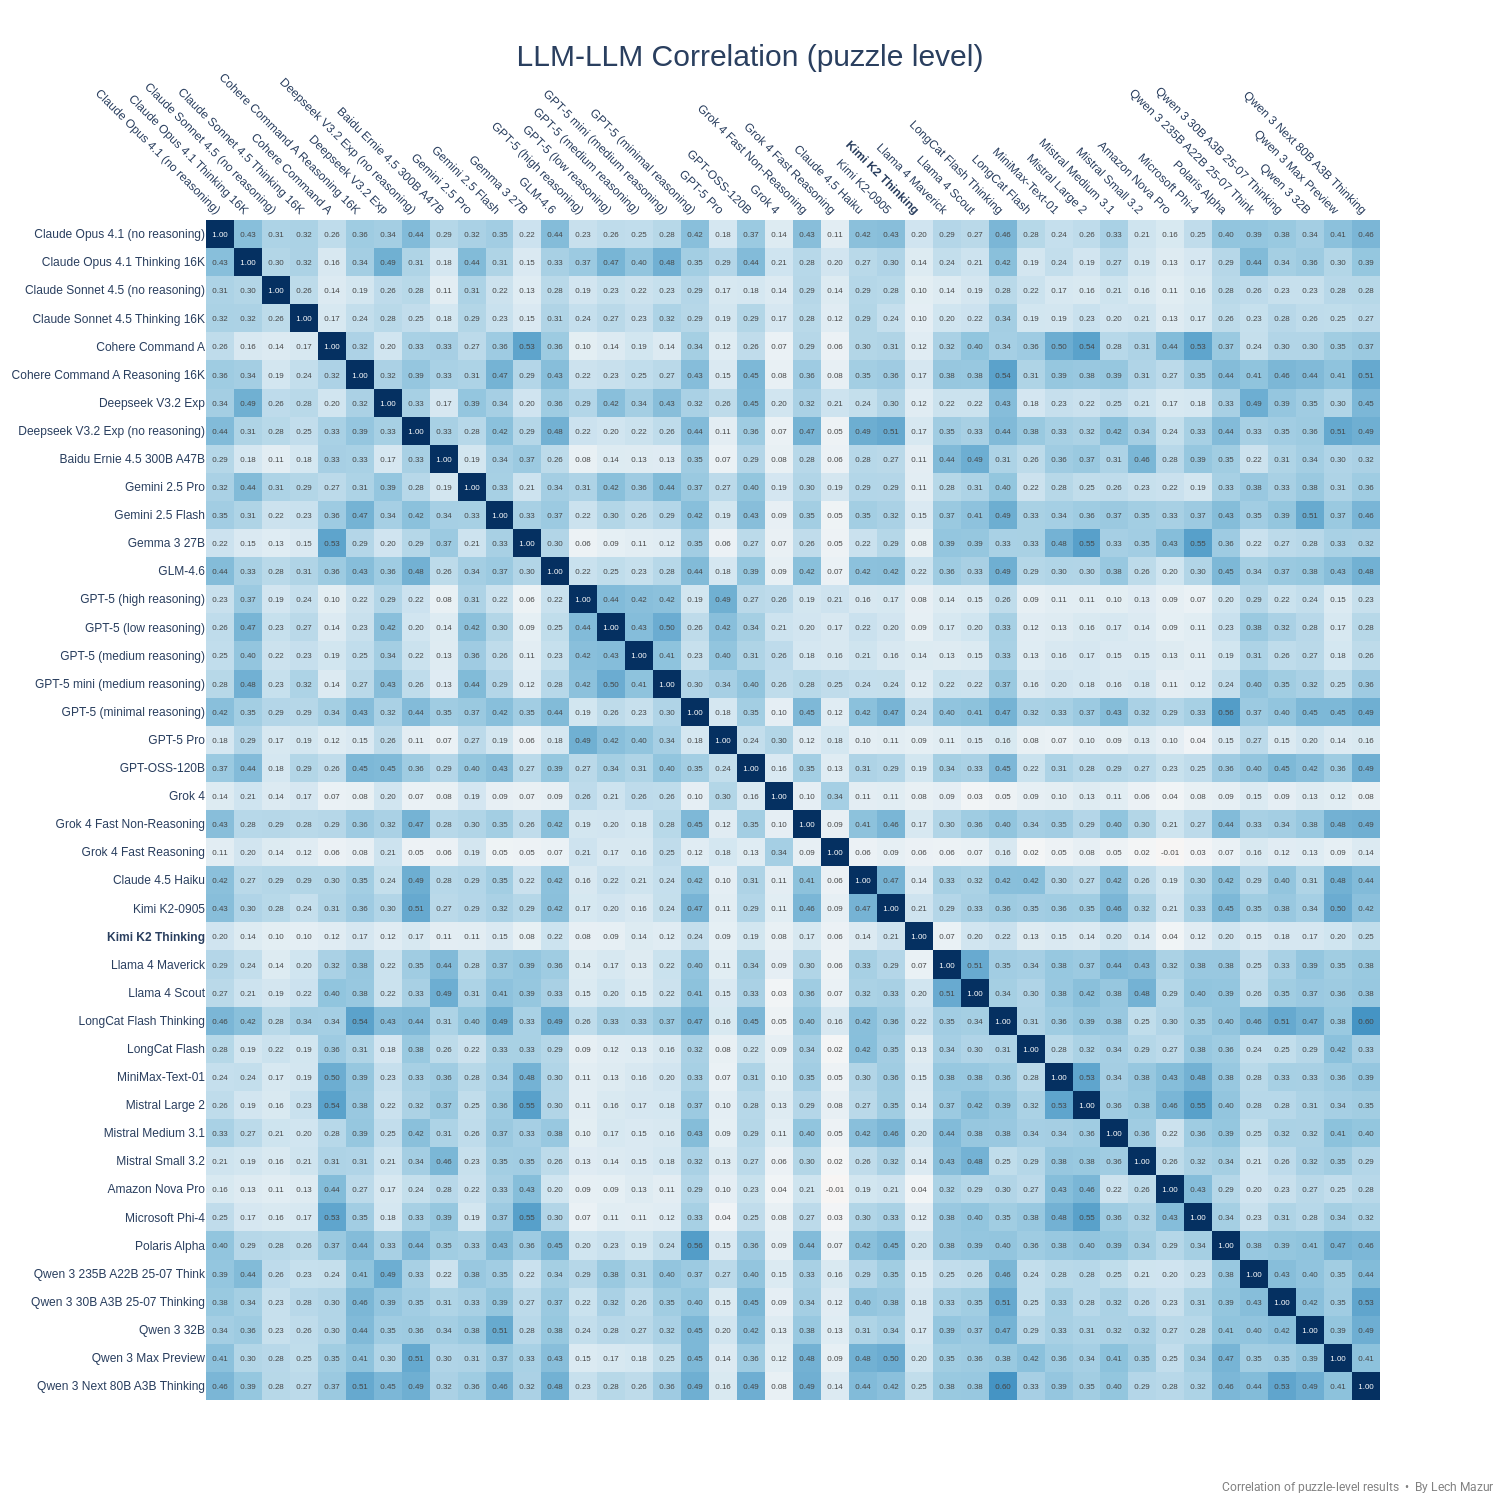
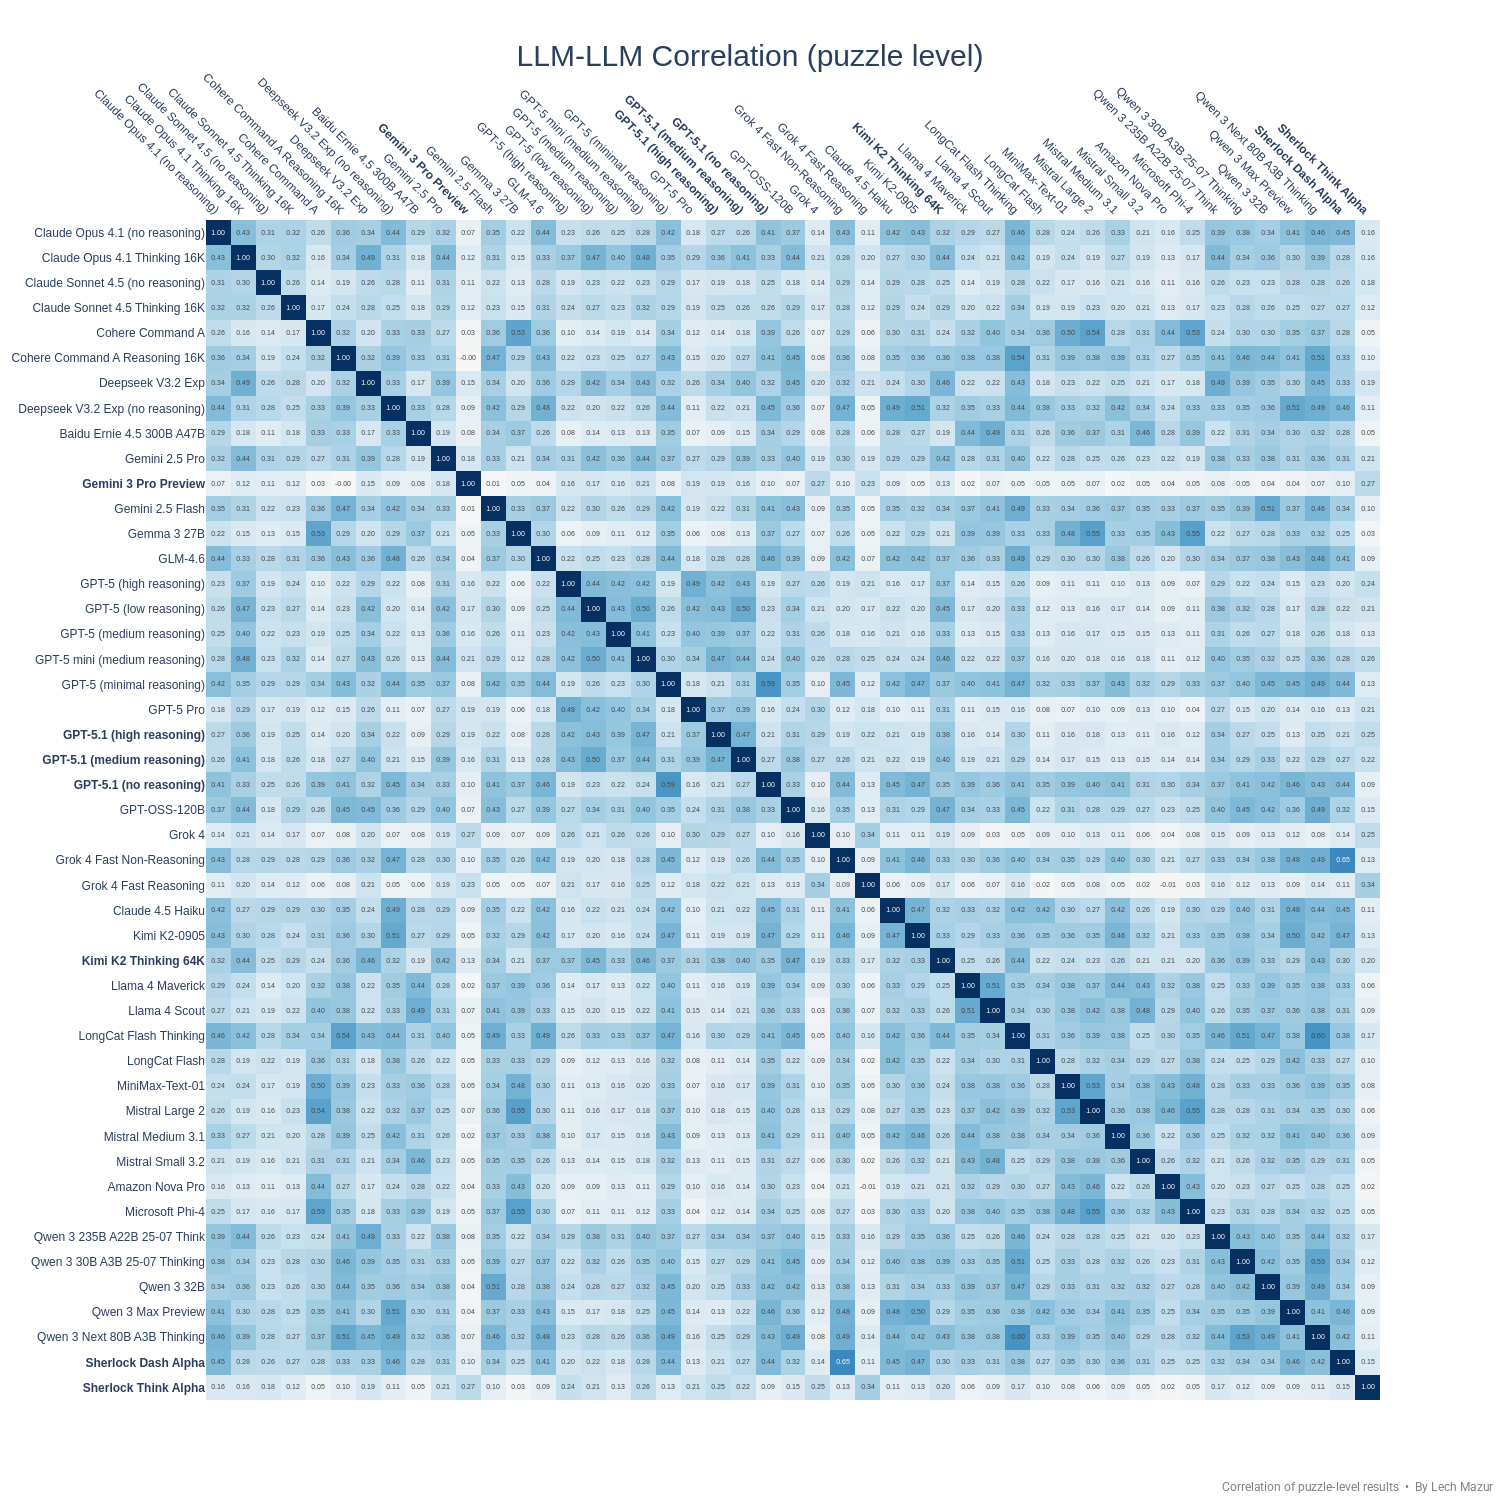
Gemini 3 Pro Preview, GPT 5.1 added

diff --git a/README.md b/README.md
@@ -12,115 +12,119 @@ As of Feb 4, 2025, there is a new version of the benchmark. The standard NYT Con
 
 |Rank|Model|Score %|#Puzzles|
 |---:|-----|------:|-------:|
-|1|Grok 4 Fast Reasoning|92.1|759|
-|2|Grok 4|91.7|759|
-|3|Sonoma Sky Alpha|90.7|759|
-|4|o3-pro (medium reasoning)|87.3|759|
-|5|GPT-5 Pro|83.9|759|
-|6|o1-pro (medium reasoning)|82.5|651|
-|7|o3 (high reasoning)|78.6|759|
-|8|GPT-5 (high reasoning)|77.0|759|
-|9|o4-mini (high reasoning)|73.6|759|
-|10|o3 (medium reasoning)|73.0|759|
-|11|GPT-5 (medium reasoning)|72.2|759|
-|12|o1 (medium reasoning)|70.8|651|
-|13|o4-mini (medium reasoning)|68.8|651|
-|14|GPT-5 mini (medium reasoning)|66.9|759|
-|15|GPT-5 (low reasoning)|65.4|759|
-|16|o3-mini (high reasoning)|61.4|651|
-|17|Deepseek V3.2 Exp|59.4|759|
-|18|Claude Opus 4.1 Thinking 16K|58.8|759|
-|19|DeepSeek V3.1 Reasoner|57.7|759|
-|20|Gemini 2.5 Pro|57.6|759|
-|21|Qwen 3 235B A22B|54.3|759|
-|22|Gemini 2.5 Pro Exp 03-25|54.1|651|
-|23|o3-mini (medium reasoning)|53.6|651|
-|24|Claude Opus 4 Thinking 16K|49.7|759|
-|25|DeepSeek R1 05/28|48.6|759|
-|26|Claude Sonnet 4.5 Thinking 16K|48.2|759|
-|27|Qwen 3 235B A22B 25-07 Think|46.2|759|
-|28|Claude Sonnet 4.5 (no reasoning)|46.1|759|
-|29|Gemini 2.5 Pro Preview 05-06|42.5|651|
-|30|Claude Sonnet 4 Thinking 16K|40.3|759|
-|31|Claude Sonnet 4 Thinking 64K|39.6|651|
-|32|GPT-OSS-120B|38.7|759|
-|33|DeepSeek R1|38.6|651|
-|34|Claude Opus 4.1 (no reasoning)|37.1|759|
-|35|Qwen 3 30B A3B|36.6|759|
-|36|Qwen 3 32B|35.8|759|
-|37|Qwen 3 30B A3B 25-07 Thinking|35.5|759|
-|38|Claude Opus 4 (no reasoning)|34.4|759|
-|39|GPT-4.5 Preview|34.2|651|
-|40|Claude 3.7 Sonnet Thinking 16K|33.6|651|
-|41|Qwen 3 Next 80B A3B Thinking|32.9|759|
-|42|LongCat Flash Thinking|31.7|499|
-|43|Qwen QwQ-32B 16K|31.4|651|
-|44|Grok 3 Mini Beta (high)|30.2|759|
-|45|GLM-4.5|30.2|759|
-|46|GPT-5 (minimal reasoning)|27.3|759|
-|47|o1-mini|26.9|651|
-|48|Claude Sonnet 4 (no reasoning)|26.6|759|
-|49|Grok 3 Mini Beta (low)|26.0|651|
-|50|Quasar Alpha|25.4|651|
-|51|Cohere Command A Reasoning 16K|25.3|759|
-|52|Gemini 2.5 Flash|25.2|759|
-|53|Grok 4 Fast Non-Reasoning|24.9|759|
-|54|GPT-4o Mar 2025|24.5|759|
-|55|GLM-4.6|24.2|759|
-|56|Qwen 3 Max Preview|23.9|759|
-|57|Kimi K2-0905|23.6|759|
-|58|Gemini 2.0 Flash Think Exp 01-21|23.1|649|
-|59|GPT-4.1|22.8|759|
-|60|Sonoma Dusk Alpha|22.8|759|
-|61|GPT-4o Feb 2025|22.7|651|
-|62|Polaris Alpha|21.8|759|
-|63|Gemini 2.0 Pro Exp 02-05|21.7|651|
-|64|DeepSeek V3.1 Non-Think|21.6|759|
-|65|MiniMax-M1|21.3|688|
-|66|Deepseek V3.2 Exp (no reasoning)|20.7|759|
-|67|Claude 4.5 Haiku|20.0|759|
-|68|Kimi K2|19.8|759|
-|69|Qwen 3 235B A22B 25-07 Instruct|19.8|759|
-|70|Grok 3 Beta (no reasoning)|19.7|759|
-|71|Grok 2 12-12|19.2|651|
-|72|Gemini 1.5 Pro (Sept)|19.2|601|
-|73|Claude 3 Opus|19.2|650|
-|74|Claude 3.7 Sonnet|19.2|651|
-|75|Gemini 2.0 Flash|18.8|651|
-|76|GPT-4o 2024-11-20|18.7|601|
-|77|Llama 4 Maverick|18.5|759|
-|78|Qwen 2.5 Max|18.0|651|
-|79|GPT-4o 2024-08-06|17.8|601|
-|80|Claude 3.5 Sonnet 2024-10-22|17.7|651|
-|81|Llama 4 Scout|17.4|759|
-|82|DeepSeek V3-0324|16.8|759|
-|83|Llama 3.1 405B|16.2|651|
-|84|Mistral Medium 3.1|15.2|759|
-|85|DeepSeek V3|15.1|651|
-|86|Llama 3.3 70B|15.1|651|
-|87|Baidu Ernie 4.5 300B A47B|14.8|759|
-|88|GPT-4.1 mini|14.4|759|
-|89|MiniMax-Text-01|13.8|759|
-|90|Cohere Command A|13.1|759|
-|91|Mistral Large 2|12.4|759|
-|92|Gemma 2 27B|12.2|651|
-|93|LongCat Flash|12.1|759|
-|94|Gemma 3 27B|11.6|759|
-|95|Mistral Medium 3|11.5|759|
-|96|Mistral Small 3.1|11.4|651|
-|97|Mistral Small 3.2|11.2|759|
-|98|Qwen 2.5 72B|10.5|759|
-|99|Claude 3.5 Haiku|10.0|759|
-|100|Amazon Nova Pro|9.9|759|
-|101|Microsoft Phi-4|9.9|759|
-|102|GPT-4o mini|9.7|759|
-|103|Mistral Small 3|8.9|601|
-|104|GPT-4.1 nano|8.1|759|
-|105|GLM4-32B-0414|7.6|759|
-|106|Kimi K2 Thinking|4.2|759|
-|107|Claude 3 Haiku|2.2|601|
-
-
+|1|Gemini 3 Pro Preview|96.8|759|
+|2|Sherlock Think Alpha|92.4|759|
+|3|Grok 4 Fast Reasoning|92.1|759|
+|4|Grok 4|91.7|759|
+|5|Sonoma Sky Alpha|90.7|759|
+|6|o3-pro (medium reasoning)|87.3|759|
+|7|GPT-5 Pro|83.9|759|
+|8|o1-pro (medium reasoning)|82.5|651|
+|9|o3 (high reasoning)|78.6|759|
+|10|GPT-5 (high reasoning)|77.0|759|
+|11|o4-mini (high reasoning)|73.6|759|
+|12|o3 (medium reasoning)|73.0|759|
+|13|GPT-5 (medium reasoning)|72.2|759|
+|14|o1 (medium reasoning)|70.8|651|
+|15|GPT-5.1 (high reasoning)|69.9|759|
+|16|o4-mini (medium reasoning)|68.8|651|
+|17|GPT-5 mini (medium reasoning)|66.9|759|
+|18|GPT-5 (low reasoning)|65.4|759|
+|19|GPT-5.1 (medium reasoning)|62.7|759|
+|20|o3-mini (high reasoning)|61.4|651|
+|21|Deepseek V3.2 Exp|59.4|759|
+|22|Claude Opus 4.1 Thinking 16K|58.8|759|
+|23|DeepSeek V3.1 Reasoner|57.7|759|
+|24|Gemini 2.5 Pro|57.6|759|
+|25|Kimi K2 Thinking 64K|56.7|759|
+|26|Qwen 3 235B A22B|54.3|759|
+|27|Gemini 2.5 Pro Exp 03-25|54.1|651|
+|28|o3-mini (medium reasoning)|53.6|651|
+|29|Claude Opus 4 Thinking 16K|49.7|759|
+|30|DeepSeek R1 05/28|48.6|759|
+|31|Claude Sonnet 4.5 Thinking 16K|48.2|759|
+|32|Qwen 3 235B A22B 25-07 Think|46.2|759|
+|33|Claude Sonnet 4.5 (no reasoning)|46.1|759|
+|34|Gemini 2.5 Pro Preview 05-06|42.5|651|
+|35|Claude Sonnet 4 Thinking 16K|40.3|759|
+|36|Claude Sonnet 4 Thinking 64K|39.6|651|
+|37|GPT-OSS-120B|38.7|759|
+|38|DeepSeek R1|38.6|651|
+|39|Claude Opus 4.1 (no reasoning)|37.1|759|
+|40|Qwen 3 30B A3B|36.6|759|
+|41|Qwen 3 32B|35.8|759|
+|42|Qwen 3 30B A3B 25-07 Thinking|35.5|759|
+|43|Claude Opus 4 (no reasoning)|34.4|759|
+|44|GPT-4.5 Preview|34.2|651|
+|45|Claude 3.7 Sonnet Thinking 16K|33.6|651|
+|46|Qwen 3 Next 80B A3B Thinking|32.9|759|
+|47|LongCat Flash Thinking|31.7|499|
+|48|Qwen QwQ-32B 16K|31.4|651|
+|49|Grok 3 Mini Beta (high)|30.2|759|
+|50|GLM-4.5|30.2|759|
+|51|GPT-5 (minimal reasoning)|27.3|759|
+|52|o1-mini|26.9|651|
+|53|Claude Sonnet 4 (no reasoning)|26.6|759|
+|54|Grok 3 Mini Beta (low)|26.0|651|
+|55|Quasar Alpha|25.4|651|
+|56|Cohere Command A Reasoning 16K|25.3|759|
+|57|Gemini 2.5 Flash|25.2|759|
+|58|Sherlock Dash Alpha|25.1|759|
+|59|Grok 4 Fast Non-Reasoning|24.9|759|
+|60|GPT-4o Mar 2025|24.5|759|
+|61|GLM-4.6|24.2|759|
+|62|Qwen 3 Max Preview|23.9|759|
+|63|Kimi K2-0905|23.6|759|
+|64|Gemini 2.0 Flash Think Exp 01-21|23.1|649|
+|65|GPT-4.1|22.8|759|
+|66|Sonoma Dusk Alpha|22.8|759|
+|67|GPT-4o Feb 2025|22.7|651|
+|68|GPT-5.1 (no reasoning)|22.1|759|
+|69|Polaris Alpha|21.8|759|
+|70|Gemini 2.0 Pro Exp 02-05|21.7|651|
+|71|DeepSeek V3.1 Non-Think|21.6|759|
+|72|MiniMax-M1|21.3|688|
+|73|Deepseek V3.2 Exp (no reasoning)|20.7|759|
+|74|Claude 4.5 Haiku|20.0|759|
+|75|Kimi K2|19.8|759|
+|76|Qwen 3 235B A22B 25-07 Instruct|19.8|759|
+|77|Grok 3 Beta (no reasoning)|19.7|759|
+|78|Grok 2 12-12|19.2|651|
+|79|Gemini 1.5 Pro (Sept)|19.2|601|
+|80|Claude 3 Opus|19.2|650|
+|81|Claude 3.7 Sonnet|19.2|651|
+|82|Gemini 2.0 Flash|18.8|651|
+|83|GPT-4o 2024-11-20|18.7|601|
+|84|Llama 4 Maverick|18.5|759|
+|85|Qwen 2.5 Max|18.0|651|
+|86|GPT-4o 2024-08-06|17.8|601|
+|87|Claude 3.5 Sonnet 2024-10-22|17.7|651|
+|88|Llama 4 Scout|17.4|759|
+|89|DeepSeek V3-0324|16.8|759|
+|90|Llama 3.1 405B|16.2|651|
+|91|Mistral Medium 3.1|15.2|759|
+|92|DeepSeek V3|15.1|651|
+|93|Llama 3.3 70B|15.1|651|
+|94|Baidu Ernie 4.5 300B A47B|14.8|759|
+|95|GPT-4.1 mini|14.4|759|
+|96|MiniMax-Text-01|13.8|759|
+|97|Cohere Command A|13.1|759|
+|98|Mistral Large 2|12.4|759|
+|99|Gemma 2 27B|12.2|651|
+|100|LongCat Flash|12.1|759|
+|101|Gemma 3 27B|11.6|759|
+|102|Mistral Medium 3|11.5|759|
+|103|Mistral Small 3.1|11.4|651|
+|104|Mistral Small 3.2|11.2|759|
+|105|Qwen 2.5 72B|10.5|759|
+|106|Claude 3.5 Haiku|10.0|759|
+|107|Amazon Nova Pro|9.9|759|
+|108|Microsoft Phi-4|9.9|759|
+|109|GPT-4o mini|9.7|759|
+|110|Mistral Small 3|8.9|601|
+|111|GPT-4.1 nano|8.1|759|
+|112|GLM4-32B-0414|7.6|759|
+|113|Claude 3 Haiku|2.2|601|
 
 
 
@@ -231,6 +235,7 @@ This benchmark evaluates large language models (LLMs) using 436 NYT Connections 
 ---
 
 ## Updates
+- Nov 18, 2025: Gemini 3 Pro Preview, GPT 5.1 added
 - Nov 12, 2025: Kimi K2 Thinking added.
 - Oct 15, 2025: Claude Haiku 4.5 added.
 - Oct 14, 2025: Claude Sonnet 4.5, Deepseek V3.2 Exp, GLM-4.6 added.
